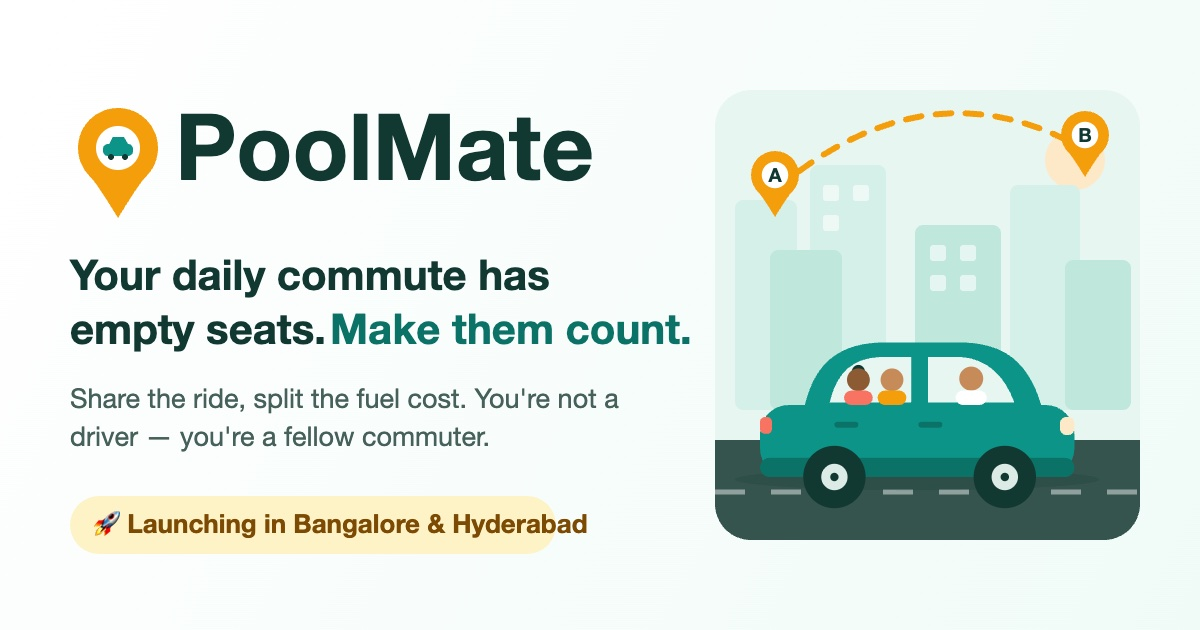
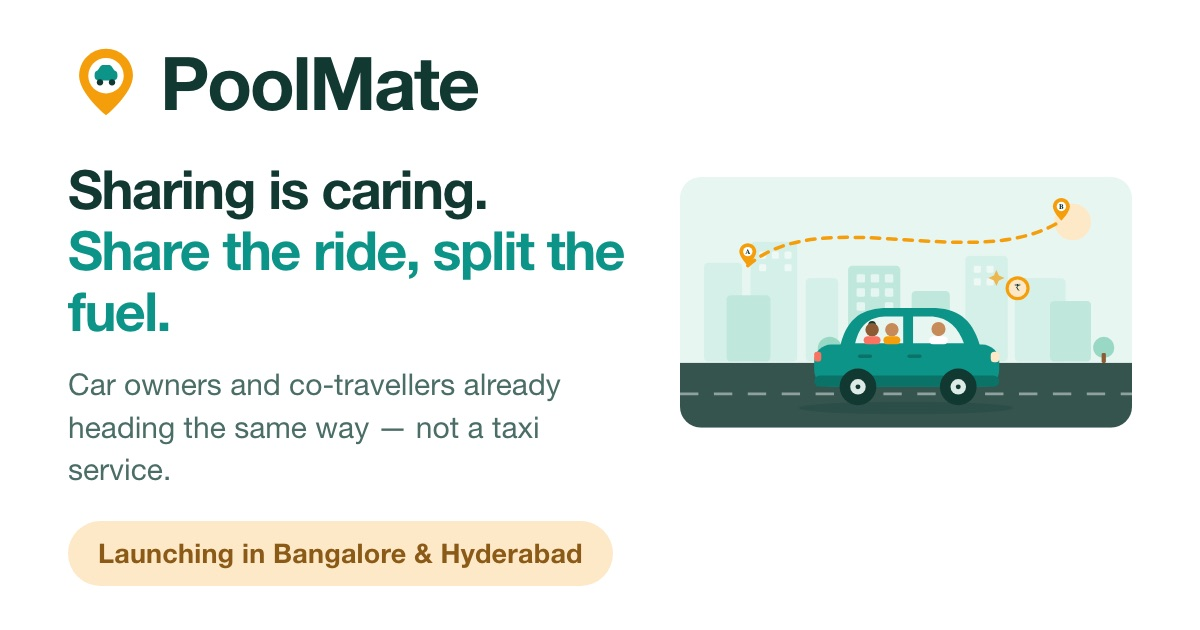
Retag the site: sharing is caring, commute framing out
The page was built on "your daily commute" -- the one framing RULES.md
rules out, since the product is general ride-sharing and pitching it as a
commute app narrows it and invites the taxi comparison we avoid.

Copy now leads with "Sharing is caring." and the positioning section says
"You're not a driver. You're just going the same way." instead of "you're a
fellow commuter", which kept the anti-taxi point while dropping the commute
lock-in. Reaches the title, meta description, both og: tags, all four
JSON-LD FAQ answers and their visible twins, the hero, the form legend, the
footer, the WhatsApp share text in js/main.js, and the privacy and
delete-account pages. Zero "commut" left in the rendered HTML.

Dropped the rocket emoji from the hero pill: RULES.md says no emoji.

og.jpg regenerated -- it carried the old headline, the commuter line and
the same emoji. It is build output now, from assets/src-og/, pulling the
car illustration straight out of src-svg/hero-carpool.svg so the preview
card and the hero cannot drift apart. 96 KB, inside WhatsApp's fetch limit.

diff --git a/index.html b/index.html
@@ -3,12 +3,12 @@
 <head>
   <meta charset="utf-8">
   <meta name="viewport" content="width=device-width, initial-scale=1">
-  <title>PoolMate — Share your commute. Split the cost.</title>
-  <meta name="description" content="PoolMate matches car owners with co-travellers on the same route in Bangalore & Hyderabad. You're not a driver — you're a fellow commuter. Join the waitlist.">
+  <title>PoolMate — Sharing is caring. Share rides, split the fuel.</title>
+  <meta name="description" content="Sharing is caring. PoolMate matches car owners with co-travellers on the same route in Bangalore &amp; Hyderabad. Share the ride, split the fuel cost. Join the waitlist.">
   <meta name="theme-color" content="#0D9488">
   <meta property="og:type" content="website">
-  <meta property="og:title" content="PoolMate — Share your commute. Split the cost.">
-  <meta property="og:description" content="Car owners and co-travellers on the same route, sharing the ride and splitting fuel costs. Launching first in Bangalore & Hyderabad. Join the waitlist.">
+  <meta property="og:title" content="PoolMate — Sharing is caring. Share rides, split the fuel.">
+  <meta property="og:description" content="Sharing is caring. Car owners and co-travellers on the same route, sharing the ride and splitting fuel costs. Launching first in Bangalore &amp; Hyderabad. Join the waitlist.">
   <meta property="og:url" content="https://poolmateapp.com/">
   <meta property="og:image" content="https://poolmateapp.com/assets/og.jpg">
   <meta property="og:image:width" content="1200">
@@ -45,7 +45,7 @@
             "name": "Is this a taxi or cab service?",
             "acceptedAnswer": {
               "@type": "Answer",
-              "text": "No. PoolMate connects private car owners with co-travellers on the same route. Owners are commuters, not commercial drivers — co-travellers simply share the cost of a trip that was happening anyway."
+              "text": "No. PoolMate connects private car owners with co-travellers on the same route. Owners are private individuals, not commercial drivers — co-travellers simply share the cost of a trip that was happening anyway."
             }
           },
           {
@@ -61,7 +61,7 @@
             "name": "How will you verify people?",
             "acceptedAnswer": {
               "@type": "Answer",
-              "text": "Every member will complete verification before their first ride — government ID, selfie match, and where possible, company email verification for IT-park commuters and community verification for gated societies. No anonymous profiles."
+              "text": "Every member will complete verification before their first ride — government ID, selfie match, and where possible, company email verification for IT-park employees and community verification for gated societies. No anonymous profiles."
             }
           },
           {
@@ -77,7 +77,7 @@
             "name": "Is carpooling even legal in India?",
             "acceptedAnswer": {
               "@type": "Answer",
-              "text": "Sharing commute costs in a private car is not the same as running a commercial taxi — no one earns a profit, costs are simply split. We cap contributions at cost-sharing levels and follow state transport guidelines as they evolve."
+              "text": "Sharing travel costs in a private car is not the same as running a commercial taxi — no one earns a profit, costs are simply split. We cap contributions at cost-sharing levels and follow state transport guidelines as they evolve."
             }
           },
           {
@@ -85,7 +85,7 @@
             "name": "When do you launch?",
             "acceptedAnswer": {
               "@type": "Answer",
-              "text": "We go live community-by-community in Bangalore and Hyderabad first — IT parks and large residential communities with the most waitlist signups open earliest. Joining the waitlist (and referring your commute buddies) directly speeds up your area."
+              "text": "We go live community-by-community in Bangalore and Hyderabad first — IT parks and large residential communities with the most waitlist signups open earliest. Joining the waitlist (and referring the people you travel with) directly speeds up your area."
             }
           }
         ]
@@ -197,8 +197,8 @@
   <section id="hero" class="hero">
     <div class="container hero-grid">
       <div class="hero-copy">
-        <p class="pill reveal">🚀 Launching first in Bangalore &amp; Hyderabad</p>
-        <h1 class="hero-title reveal d1">Your daily commute has empty seats. <em>Make them count.</em></h1>
+        <p class="pill reveal">Launching first in Bangalore &amp; Hyderabad</p>
+        <h1 class="hero-title reveal d1">Sharing is caring. <em>Share the ride, split the fuel.</em></h1>
         <p class="hero-sub reveal d2"><span data-app-name>PoolMate</span> matches car owners with co-travellers heading the same way — share the ride, split the fuel cost, and turn traffic time into network time.</p>
         <div class="hero-ctas reveal d3">
           <a class="btn btn-primary" href="#waitlist" data-role="owner">I own a car</a>
@@ -329,7 +329,7 @@
             </li>
             <li class="step">
               <span class="step-icon"><svg class="icon" aria-hidden="true"><use href="#i-approve"/></svg></span>
-              <div><h4>Approve your co-travellers</h4><p>Verified commuters on your route request a seat. You choose who rides.</p></div>
+              <div><h4>Approve your co-travellers</h4><p>Verified members on your route request a seat. You choose who rides.</p></div>
             </li>
             <li class="step">
               <span class="step-icon"><svg class="icon" aria-hidden="true"><use href="#i-fuel"/></svg></span>
@@ -363,7 +363,7 @@
     <div class="container pos-grid">
       <div class="pos-visual reveal">
         <svg class="pos-art" viewBox="0 0 480 360" xmlns="http://www.w3.org/2000/svg" role="img" aria-labelledby="posArtTitle">
-          <title id="posArtTitle">A crossed-out taxi sign next to a commuter standing proudly by their own car with a friendly co-passenger</title>
+          <title id="posArtTitle">A crossed-out taxi sign next to a car owner standing proudly by their own car with a friendly co-passenger</title>
           <!-- crossed-out taxi -->
           <g>
             <circle cx="118" cy="150" r="78" fill="#F1F5F4"/>
@@ -373,7 +373,7 @@
             <rect x="94" y="164" width="48" height="9" rx="4.5" fill="#CBD5E1"/>
             <line x1="66" y1="206" x2="172" y2="94" stroke="#F97362" stroke-width="11" stroke-linecap="round"/>
           </g>
-          <!-- commuter + own car -->
+          <!-- car owner + own car -->
           <g>
             <ellipse cx="340" cy="312" rx="130" ry="9" fill="#0F3D36" opacity="0.14"/>
             <!-- car front half, driving in from the right -->
@@ -386,7 +386,7 @@
             <rect x="310" y="268" width="170" height="14" rx="7" fill="#0B7268"/>
             <rect x="468" y="238" width="12" height="14" rx="5" fill="#FDE9C8"/>
             <circle cx="368" cy="284" r="23" fill="#123832"/><circle cx="368" cy="284" r="10" fill="#DCEBE6"/>
-            <!-- commuter figure -->
+            <!-- car owner figure -->
             <g>
               <circle cx="284" cy="164" r="15" fill="#C68B59"/>
               <path d="M284 148c-6 0-11 4-12 9 0-9 5-15 12-15s12 6 12 15c-1-5-6-9-12-9z" fill="#123832"/>
@@ -407,8 +407,8 @@
         </svg>
       </div>
       <div class="pos-copy">
-        <h2 class="section-title reveal">You're not a driver. You're a fellow commuter.</h2>
-        <p class="reveal d1">Nobody on <span data-app-name>PoolMate</span> drives for a living. Car owners here are professionals already commuting from A to B — they simply pick up co-travellers along the way. It's cost-sharing between colleagues and neighbours, not a taxi fare.</p>
+        <h2 class="section-title reveal">You're not a driver. You're just going the same way.</h2>
+        <p class="reveal d1">Nobody on <span data-app-name>PoolMate</span> drives for a living. Car owners here are people already driving from A to B — they simply pick up co-travellers along the way. It's cost-sharing between colleagues and neighbours, not a taxi fare.</p>
         <ul class="check-list reveal d2">
           <li><svg class="icon" aria-hidden="true"><use href="#i-check-circle"/></svg> No detours, no duty — you drive your own route, on your own schedule</li>
           <li><svg class="icon" aria-hidden="true"><use href="#i-check-circle"/></svg> Co-travellers share costs; this is not a commercial service</li>
@@ -593,7 +593,7 @@
       <h2 class="section-title reveal">Get the PoolMate app</h2>
       <p class="section-sub reveal" style="margin-inline:auto">
         The Android beta is ready to install. Download the app, sign in with
-        Google, and start sharing your commute.
+        Google, and start sharing rides.
       </p>
       <p class="reveal">
         <a class="btn btn-primary" id="apkDownloadBtn" href="#" rel="noopener">
@@ -673,7 +673,7 @@
               </div>
 
               <fieldset class="field field-chips" id="frequencyGroup">
-                <legend>How often do you commute?</legend>
+                <legend>How often do you travel this route?</legend>
                 <div class="chips">
                   <label class="chip"><input type="radio" name="frequency" value="1-2 days/week"><span>1–2 days/wk</span></label>
                   <label class="chip"><input type="radio" name="frequency" value="3-4 days/week"><span>3–4 days/wk</span></label>
@@ -746,7 +746,7 @@
       <div class="faq-list reveal d1">
         <details class="faq-item">
           <summary><svg class="icon" aria-hidden="true"><use href="#i-car"/></svg> Is this a taxi or cab service?</summary>
-          <p>No. <span data-app-name>PoolMate</span> connects private car owners with co-travellers on the same route. Owners are commuters, not commercial drivers — co-travellers simply share the cost of a trip that was happening anyway.</p>
+          <p>No. <span data-app-name>PoolMate</span> connects private car owners with co-travellers on the same route. Owners are private individuals, not commercial drivers — co-travellers simply share the cost of a trip that was happening anyway.</p>
         </details>
         <details class="faq-item">
           <summary><svg class="icon" aria-hidden="true"><use href="#i-wallet"/></svg> How much will a ride cost?</summary>
@@ -754,7 +754,7 @@
         </details>
         <details class="faq-item">
           <summary><svg class="icon" aria-hidden="true"><use href="#i-idcard"/></svg> How will you verify people?</summary>
-          <p>Every member will complete verification before their first ride — government ID, selfie match, and where possible, company email verification for IT-park commuters and community verification for gated societies. No anonymous profiles.</p>
+          <p>Every member will complete verification before their first ride — government ID, selfie match, and where possible, company email verification for IT-park employees and community verification for gated societies. No anonymous profiles.</p>
         </details>
         <details class="faq-item">
           <summary><svg class="icon" aria-hidden="true"><use href="#i-women"/></svg> What about women's safety?</summary>
@@ -762,11 +762,11 @@
         </details>
         <details class="faq-item">
           <summary><svg class="icon" aria-hidden="true"><use href="#i-shield"/></svg> Is carpooling even legal in India?</summary>
-          <p>Sharing commute costs in a private car is not the same as running a commercial taxi — no one earns a profit, costs are simply split. We cap contributions at cost-sharing levels and follow state transport guidelines as they evolve.</p>
+          <p>Sharing travel costs in a private car is not the same as running a commercial taxi — no one earns a profit, costs are simply split. We cap contributions at cost-sharing levels and follow state transport guidelines as they evolve.</p>
         </details>
         <details class="faq-item">
           <summary><svg class="icon" aria-hidden="true"><use href="#i-route"/></svg> When do you launch?</summary>
-          <p>We go live community-by-community in Bangalore and Hyderabad first — IT parks and large residential communities with the most waitlist signups open earliest. Joining the waitlist (and referring your commute buddies) directly speeds up your area.</p>
+          <p>We go live community-by-community in Bangalore and Hyderabad first — IT parks and large residential communities with the most waitlist signups open earliest. Joining the waitlist (and referring the people you travel with) directly speeds up your area.</p>
         </details>
       </div>
     </div>
@@ -781,13 +781,13 @@
       <svg class="icon brand-mark" aria-hidden="true"><use href="#i-logo"/></svg>
       <span class="brand-name" data-app-name>PoolMate</span>
     </div>
-    <p class="footer-tagline"><span data-app-name>PoolMate</span> — the commute network. Share the ride, split the cost.</p>
+    <p class="footer-tagline"><span data-app-name>PoolMate</span> — sharing is caring. Share the ride, split the cost.</p>
     <ul class="footer-cities" aria-label="Launch cities">
       <li>Bangalore</li>
       <li>Hyderabad</li>
       <li>More metros soon</li>
     </ul>
-    <p class="footer-fine"><span data-app-name>PoolMate</span> is a cost-sharing platform for private commuters. It is not a taxi service, cab aggregator, or commercial transport operator.</p>
+    <p class="footer-fine"><span data-app-name>PoolMate</span> is a cost-sharing platform for private car owners and their co-travellers. It is not a taxi service, cab aggregator, or commercial transport operator.</p>
     <p class="footer-fine"><a href="privacy.html">Privacy policy</a> · <a href="delete-account.html">Delete your account</a></p>
     <p class="footer-fine">Made with intent in Bengaluru &amp; Hyderabad · © 2026 <span data-app-name>PoolMate</span></p>
   </div>

diff --git a/assets/src-og/og.html b/assets/src-og/og.html
@@ -1,0 +1,66 @@
+<!doctype html>
+<!-- og:image source — 1200x630. Render with ./render.sh; never hand-edit og.jpg.
+     The illustration is pulled straight from ../src-svg/hero-carpool.svg, so the
+     card and the hero cannot drift apart. -->
+<meta charset="utf-8">
+<style>
+  * { margin: 0; padding: 0; box-sizing: border-box; }
+  html, body { width: 1200px; height: 630px; overflow: hidden; }
+  body {
+    display: flex; align-items: center; gap: 44px; padding: 0 68px;
+    background: #fff;
+    font-family: "Helvetica Neue", Helvetica, Arial, sans-serif;
+    -webkit-font-smoothing: antialiased;
+    color: #123832;
+  }
+  .copy { flex: 1 1 0; min-width: 0; }
+
+  .brand { display: flex; align-items: center; gap: 16px; }
+  .brand svg { width: 76px; height: 76px; }
+  .brand .name {
+    font-size: 74px; font-weight: 700; letter-spacing: -2.4px; line-height: 1;
+  }
+
+  h1 {
+    margin-top: 38px;
+    font-size: 54px; font-weight: 700; letter-spacing: -1.6px; line-height: 1.13;
+  }
+  h1 em { font-style: normal; color: #0D9488; }
+
+  .sub {
+    margin-top: 22px; font-size: 30px; line-height: 1.42; color: #4A6D65;
+    max-width: 560px;
+  }
+
+  .pill {
+    display: inline-block; margin-top: 30px;
+    padding: 16px 30px; border-radius: 999px;
+    background: #FDE9C8; color: #8A5A16;
+    font-size: 27px; font-weight: 700; letter-spacing: .2px;
+  }
+
+  .art { flex: none; width: 452px; height: 452px; }
+  .art img { width: 100%; height: 100%; object-fit: contain; }
+</style>
+
+<div class="copy">
+  <div class="brand">
+    <svg viewBox="0 0 24 24" xmlns="http://www.w3.org/2000/svg">
+      <path fill="#F59E0B" d="M12 1.5C7.3 1.5 3.5 5.3 3.5 10c0 5.6 8.5 12.5 8.5 12.5S20.5 15.6 20.5 10c0-4.7-3.8-8.5-8.5-8.5z"/>
+      <circle cx="12" cy="10" r="5.6" fill="#fff"/>
+      <path d="M9.2 8.6l1-1.5c.2-.3.5-.5.9-.5h1.8c.4 0 .7.2.9.5l1 1.5z" fill="#0D9488"/>
+      <rect x="8.4" y="8.4" width="7.2" height="3.1" rx="1.3" fill="#0D9488"/>
+      <circle cx="10.1" cy="12.1" r="1" fill="#123832"/>
+      <circle cx="13.9" cy="12.1" r="1" fill="#123832"/>
+    </svg>
+    <span class="name">PoolMate</span>
+  </div>
+
+  <h1>Sharing is caring.<br><em>Share the ride, split the fuel.</em></h1>
+
+  <p class="sub">Car owners and co-travellers already heading the same way — not a taxi service.</p>
+
+  <span class="pill">Launching in Bangalore &amp; Hyderabad</span>
+</div>
+
+<div class="art"><img src="../src-svg/hero-carpool.svg" alt=""></div>

diff --git a/privacy.html b/privacy.html
@@ -42,7 +42,7 @@
     <p class="legal-meta">Last updated: 31 July 2026</p>
 
     <p>
-      PoolMate helps commuters share rides they were already taking and split the
+      PoolMate helps members share rides they were already taking and split the
       fuel cost. This policy explains exactly what we collect, why, and what we
       never do. We have tried to write it in plain English rather than legalese.
     </p>
@@ -97,7 +97,7 @@
     <h2>Why we're allowed to hold it</h2>
     <p>
       We process this data to provide the service you asked for: matching you with
-      commuters on your route and letting you coordinate a shared ride. We rely on
+      members on your route and letting you coordinate a shared ride. We rely on
       your consent, which you can withdraw at any time by deleting your account.
     </p>
 
@@ -120,7 +120,7 @@
     <p>
       Until the app launches, this site runs a waitlist. If you join it, we
       collect what you enter in the form: your WhatsApp number, and — only if
-      you choose to share them — your name, email, city, commute frequency,
+      you choose to share them — your name, email, city, travel frequency,
       whether you drive, seats available, and your ride-with preference. Each
       signup also records how you found the page (campaign tags in the link
       you clicked) and when it was submitted.
@@ -188,7 +188,8 @@
 <footer class="site-footer">
   <div class="container footer-inner">
     <p class="footer-fine">
-      PoolMate is a cost-sharing platform for private commuters. It is not a taxi
+      PoolMate is a cost-sharing platform for private car owners and their
+      co-travellers. It is not a taxi
       service, cab aggregator, or commercial transport operator.
     </p>
     <p class="footer-fine">

diff --git a/js/main.js b/js/main.js
@@ -111,7 +111,7 @@
   var draftWasRestored = false;
 
   var pageUrl = location.origin + location.pathname;
-  var shareText = "I just joined the " + APP + " waitlist — carpooling for daily commuters, launching in Bangalore & Hyderabad. Share your ride, split fuel costs. Join me: " + pageUrl;
+  var shareText = "I just joined the " + APP + " waitlist — sharing is caring. Carpooling in Bangalore & Hyderabad. Share the ride, split fuel costs. Join me: " + pageUrl;
   if (shareBtn) {
     shareBtn.href = "https://wa.me/?text=" + encodeURIComponent(shareText);
     shareBtn.addEventListener("click", function () { track("share_whatsapp_click"); });

diff --git a/delete-account.html b/delete-account.html
@@ -77,7 +77,8 @@
 <footer class="site-footer">
   <div class="container footer-inner">
     <p class="footer-fine">
-      PoolMate is a cost-sharing platform for private commuters. It is not a taxi
+      PoolMate is a cost-sharing platform for private car owners and their
+      co-travellers. It is not a taxi
       service, cab aggregator, or commercial transport operator.
     </p>
     <p class="footer-fine">

diff --git a/SETUP-FORM.md b/SETUP-FORM.md
@@ -2,7 +2,7 @@
 
 Signups POST to a Google Apps Script web app which appends each one as a row
 in a Google Sheet you own. Free, unlimited, and you can filter/sort by
-commute frequency later to see who travels often.
+travel frequency later to see who travels often.
 
 > **Already deployed the first version of this script?** The site keeps working
 > as-is — nothing to do urgently. But that version writes a hard-coded list of
@@ -123,7 +123,7 @@ commute frequency later to see who travels often.
   field starts a *new* column and leaves the old one behind.
 - **Only the WhatsApp number is required.** Every other column can legitimately
   be blank — the page exists to measure interest, so nothing else blocks a
-  signup. Sort by `frequency` (blanks last) to find the frequent commuters.
+  signup. Sort by `frequency` (blanks last) to find the frequent travellers.
 - **`source` carries extras.** It reads `landing-v2`, plus `ride_with=…` until
   the script above is deployed, plus `flagged=honeypot|fast` on submissions that
   tripped a bot check. Flagged rows are still saved on purpose — a false

diff --git a/README.md b/README.md
@@ -1,9 +1,9 @@
 # PoolMate — pre-launch waitlist landing page
 
-Static landing page for **PoolMate**, a carpooling network for daily commuters
-(car owners are fellow commuters, not drivers). Collects role-split waitlist
-signups (Car Owner / Passenger) with city, commute frequency, and ride-with
-preference — the WhatsApp number is the only required field —
+Static landing page for **PoolMate**, a carpooling network for shared rides
+(car owners are going the same way, not driving for a living). Collects
+role-split waitlist signups (Car Owner / Passenger) with city, travel
+frequency, and ride-with preference — the WhatsApp number is the only required field —
 launching first in **Bangalore & Hyderabad**.
 
 **Live:** https://poolmateapp.com/
